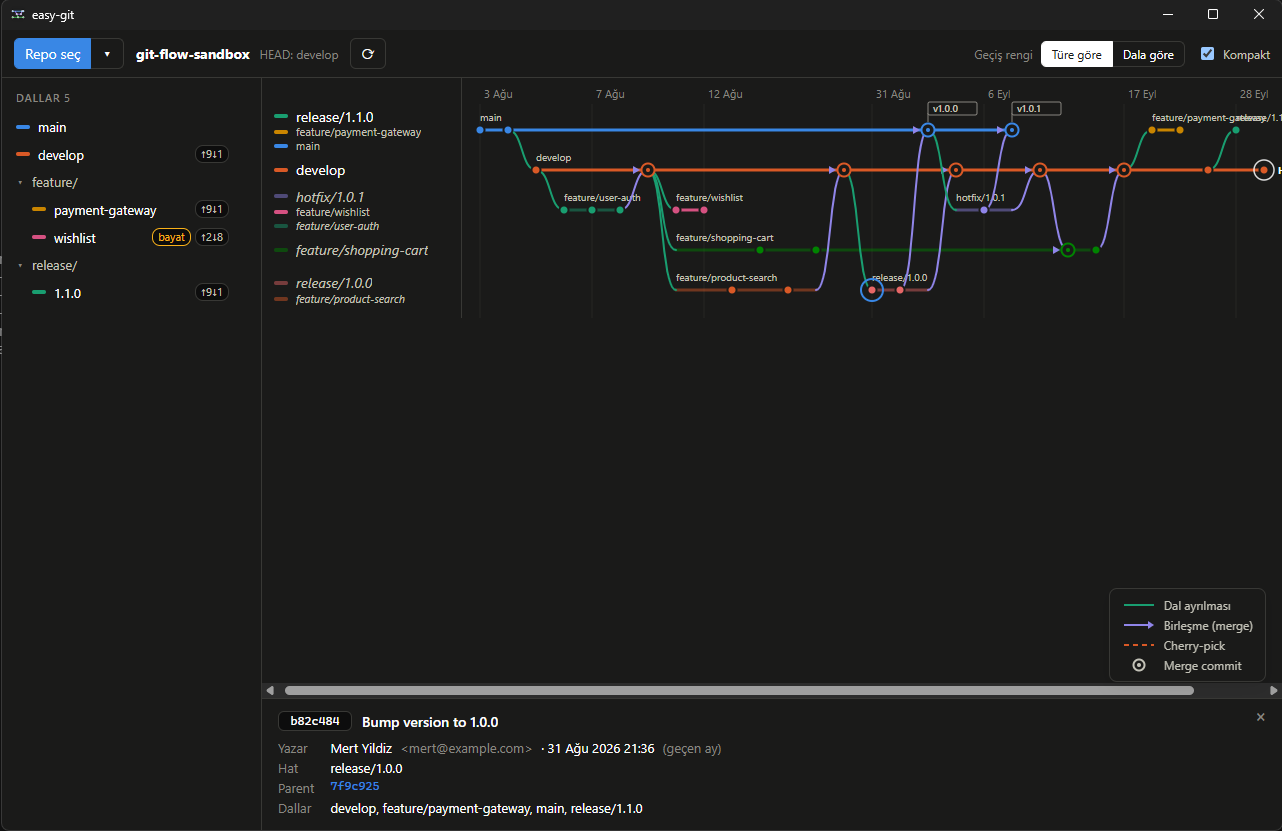
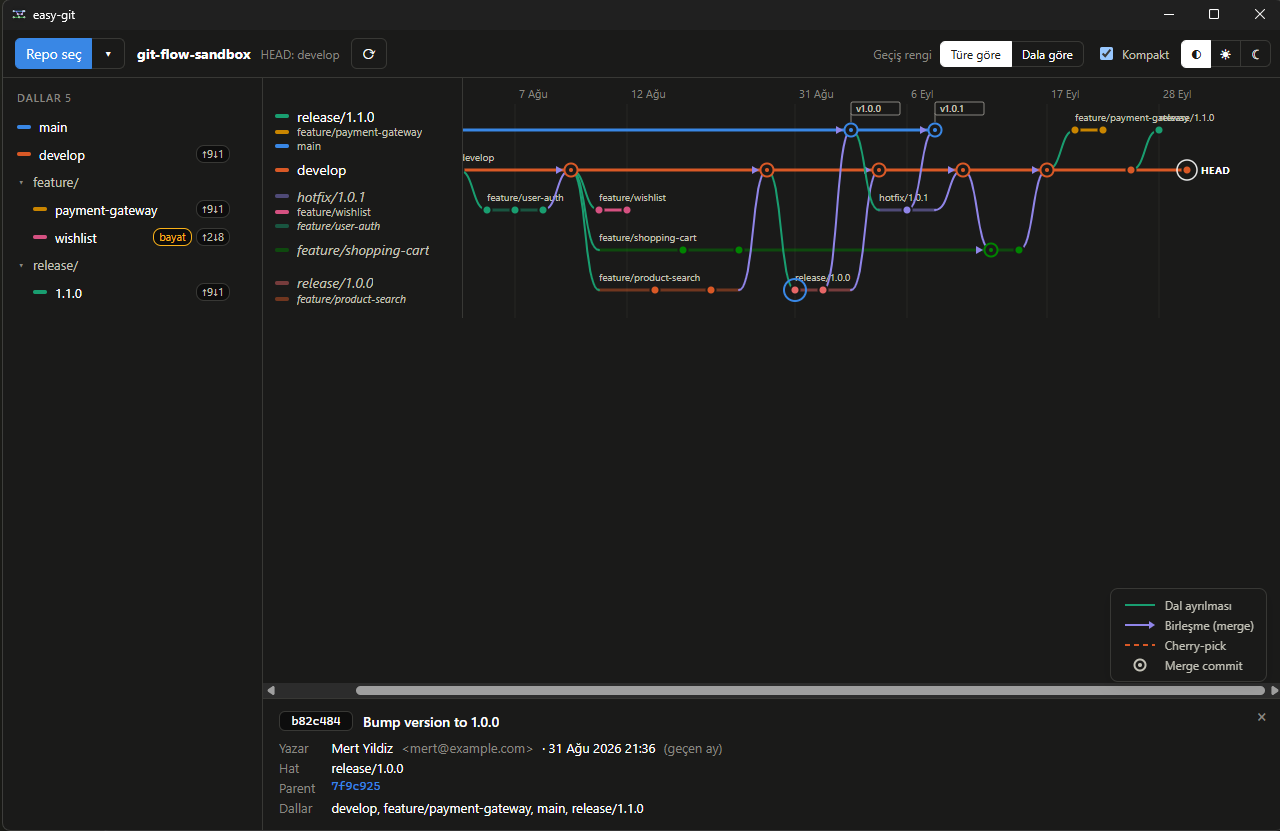
chore: update runtime screenshots

diff --git a/README.md b/README.md
@@ -137,3 +137,7 @@ Belli bir dal seçimi;
 Gece/Gündüz modu eklendikten sonra;
 
 ![easy-git-runtime-4](EasyGitRuntime_03.png)
+
+Listeden repo kaldırma
+
+![easy-git-runtime-5](EasyGitRuntime_04.png)
